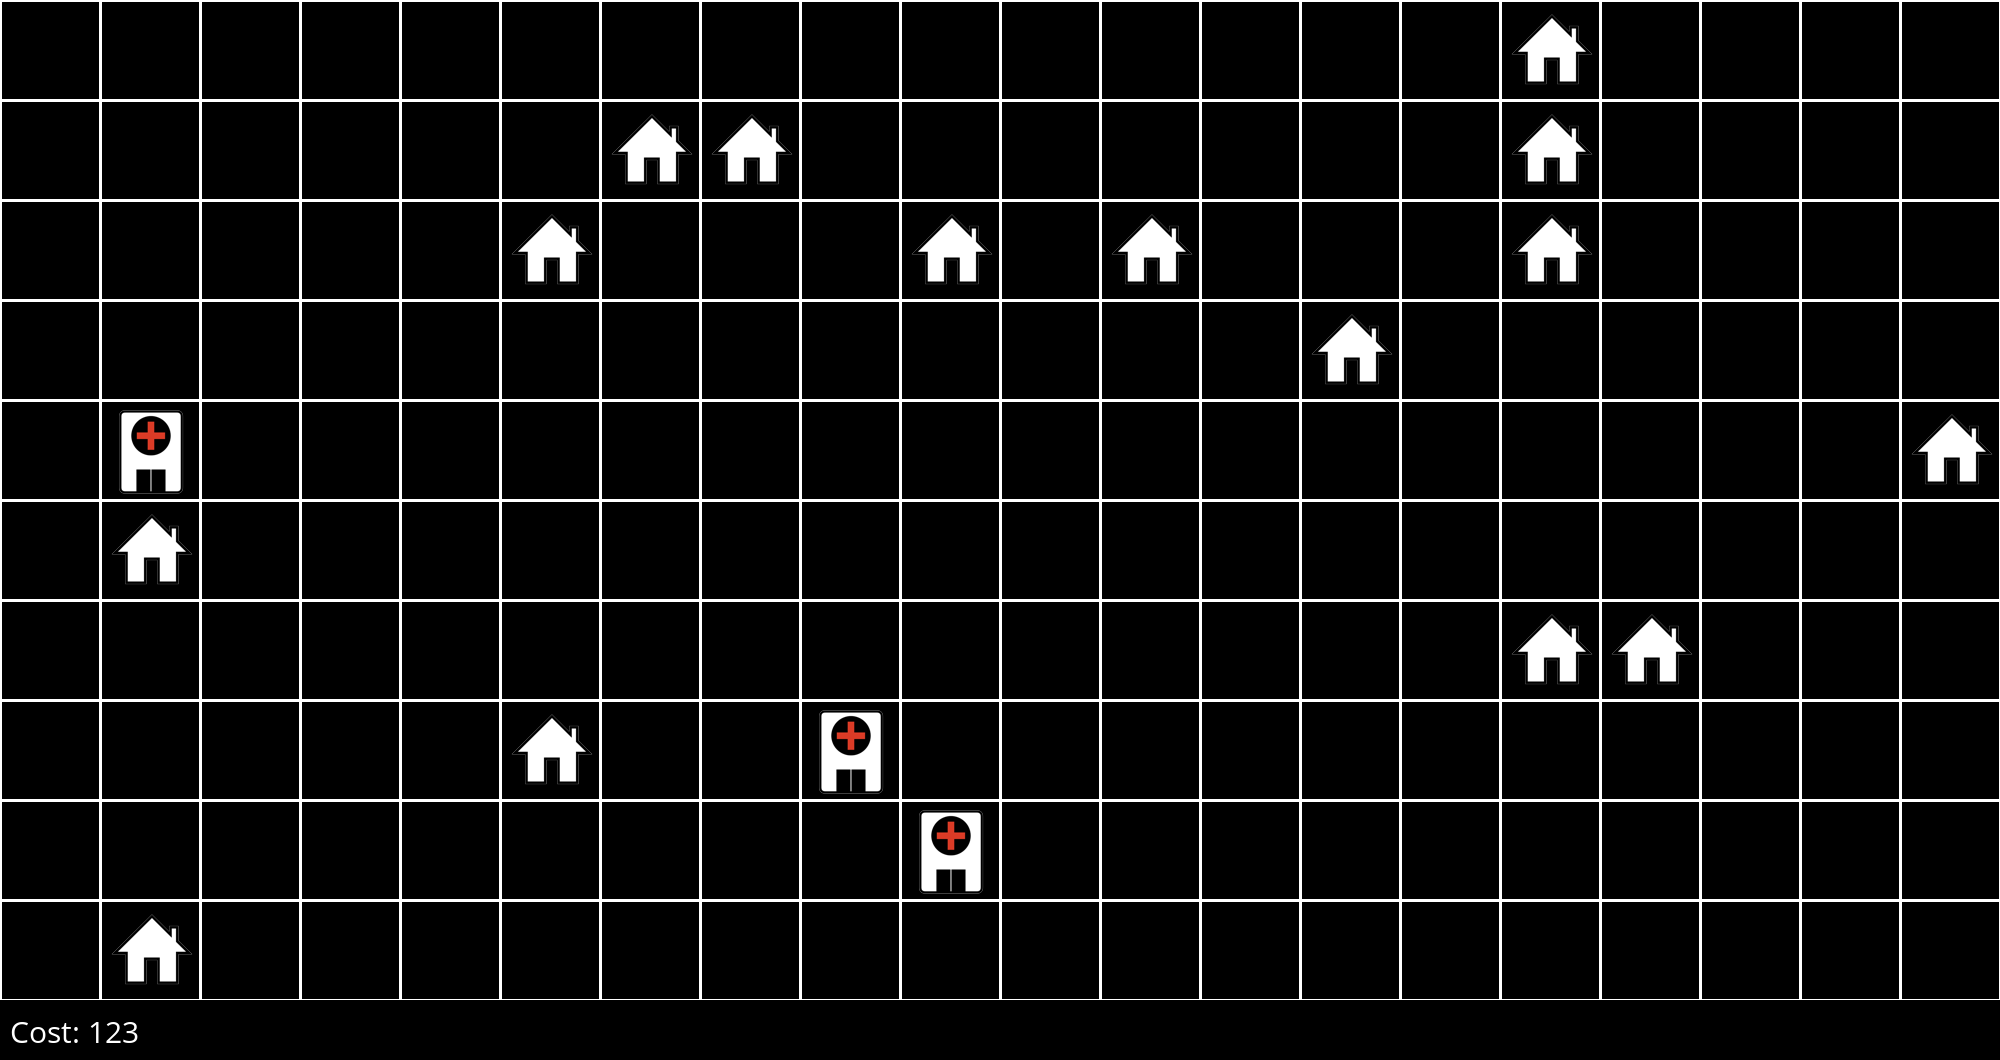
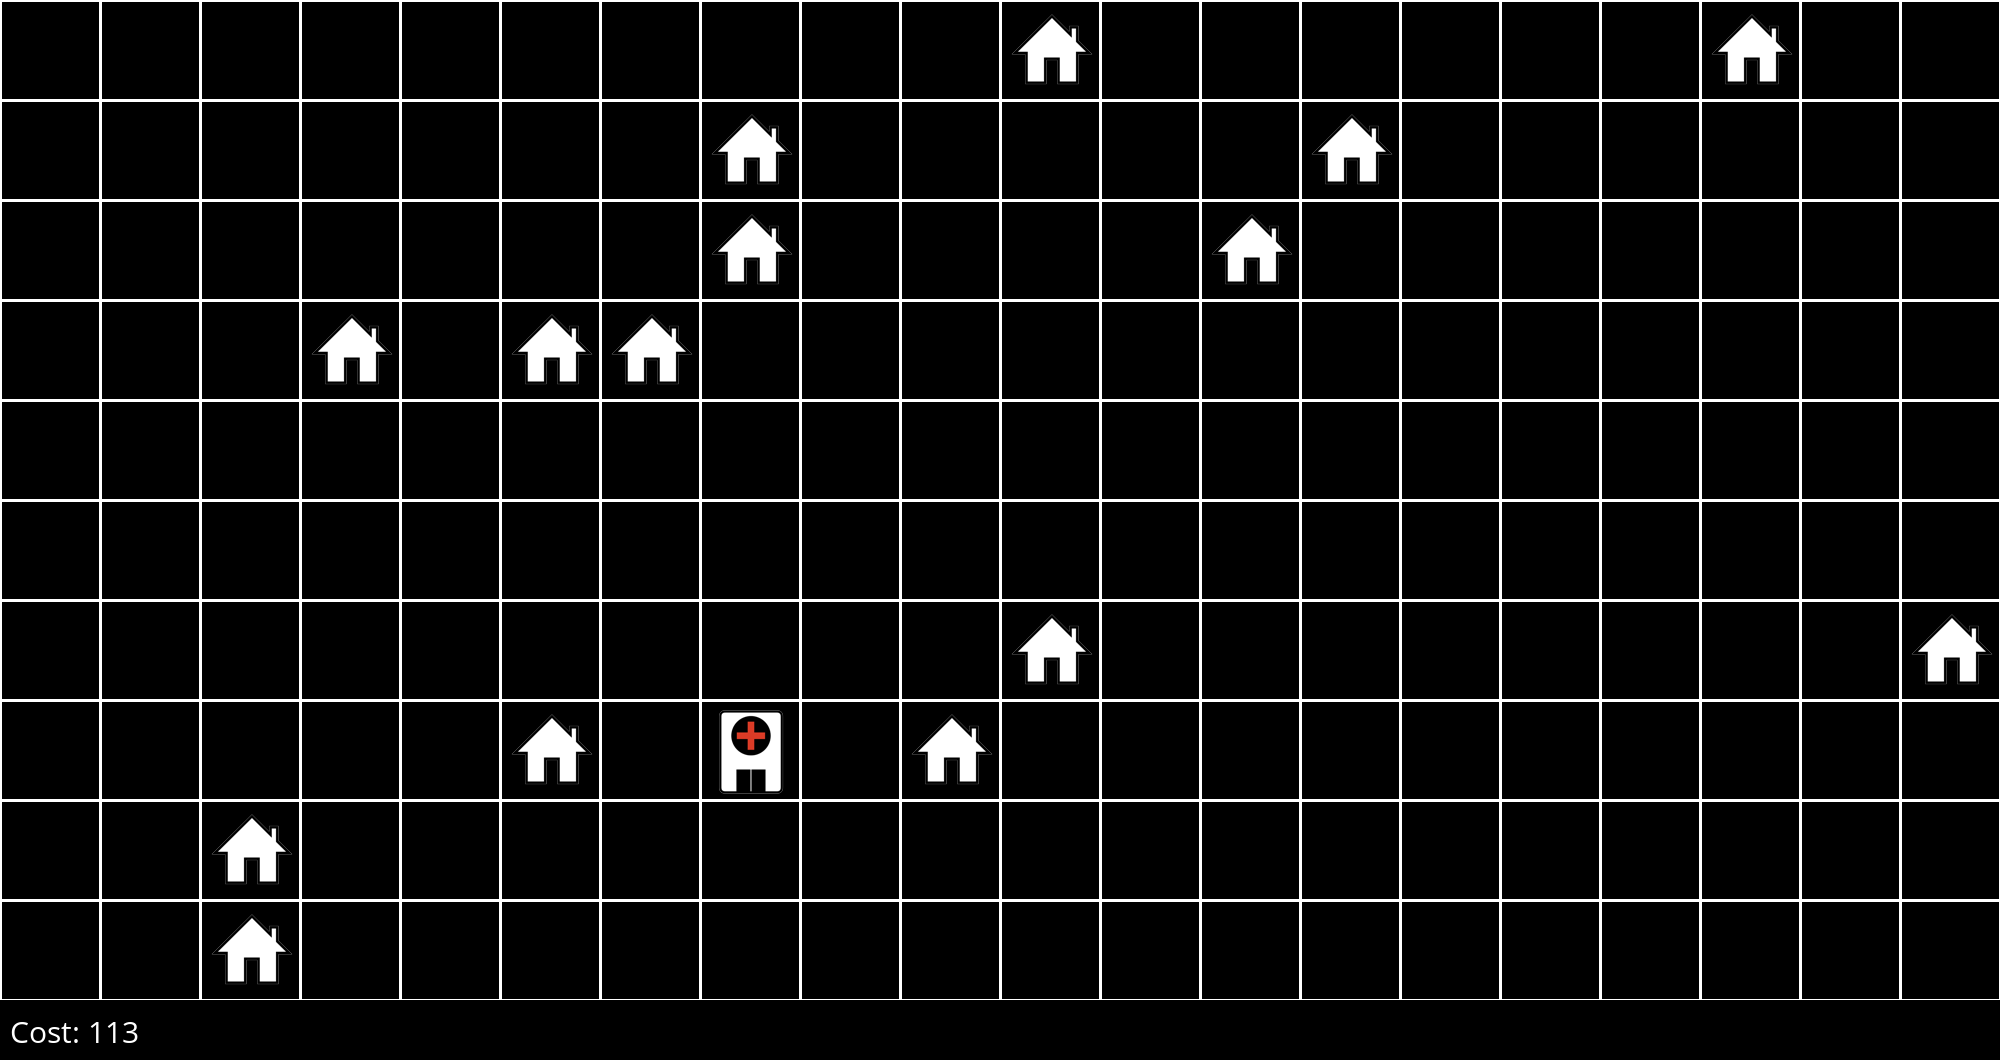
add test.py with matplotlib heatmap function

diff --git a/test.py b/test.py
@@ -1,0 +1,76 @@
+import matplotlib.pyplot as plt
+import numpy as np
+import matplotlib as mpl
+
+def heatmap(data, ax=None, cbar_kw=None, cbarlabel="", **kwargs):
+    """
+    Create a heatmap from a numpy array and two lists of labels.
+
+    Parameters
+    ----------
+    data
+        A 2D numpy array of shape (M, N).
+    row_labels
+        A list or array of length M with the labels for the rows.
+    col_labels
+        A list or array of length N with the labels for the columns.
+    ax
+        A `matplotlib.axes.Axes` instance to which the heatmap is plotted.  If
+        not provided, use current axes or create a new one.  Optional.
+    cbar_kw
+        A dictionary with arguments to `matplotlib.Figure.colorbar`.  Optional.
+    cbarlabel
+        The label for the colorbar.  Optional.
+    **kwargs
+        All other arguments are forwarded to `imshow`.
+    """
+
+    if ax is None:
+        ax = plt.gca()
+
+    if cbar_kw is None:
+        cbar_kw = {}
+
+    # Plot the heatmap
+    im = ax.imshow(data, **kwargs)
+
+    # Create colorbar
+    cbar = ax.figure.colorbar(im, ax=ax, **cbar_kw)
+    cbar.ax.set_ylabel(cbarlabel, rotation=-90, va="bottom")
+
+    # Show all ticks and label them with the respective list entries.
+    # ax.set_xticks(np.arange(data.shape[1]), labels=col_labels)
+    # ax.set_yticks(np.arange(data.shape[0]), labels=row_labels)
+
+    # Let the horizontal axes labeling appear on top.
+    # ax.tick_params(top=True, bottom=False,
+    #                labeltop=True, labelbottom=False)
+
+    # Rotate the tick labels and set their alignment.
+    # plt.setp(ax.get_xticklabels(), rotation=-30, ha="right",
+    #          rotation_mode="anchor")
+
+    # Turn spines off and create white grid.
+    ax.spines[:].set_visible(False)
+
+    ax.set_xticks(np.arange(data.shape[1]+1)-.5, minor=True)
+    ax.set_yticks(np.arange(data.shape[0]+1)-.5, minor=True)
+    ax.grid(which="minor", color="w", linestyle='-', linewidth=3)
+    ax.tick_params(which="minor", bottom=False, left=False)
+
+    return im, cbar
+
+harvest = np.array([[0.8, 2.4, 2.5, 3.9, 0.0, 4.0, 0.0],
+                    [2.4, 0.0, 4.0, 1.0, 2.7, 0.0, 0.0],
+                    [1.1, 2.4, 0.8, 4.3, 1.9, 4.4, 0.0],
+                    [0.6, 0.0, 0.3, 0.0, 3.1, 0.0, 0.0],
+                    [0.7, 1.7, 0.6, 2.6, 2.2, 6.2, 0.0],
+                    [1.3, 1.2, 0.0, 0.0, 0.0, 3.2, 5.1],
+                    [0.1, 2.0, 0.0, 1.4, 0.0, 1.9, 6.3]])
+
+fig, ax = plt.subplots()
+
+im, cbar = heatmap(harvest, ax=ax, cmap="plasma", cbarlabel="cost")
+
+fig.tight_layout()
+plt.show()

diff --git a/hospitals.py b/hospitals.py
@@ -1,5 +1,5 @@
 import random
-
+from test import heatmap
 
 class Space():
 
@@ -191,9 +191,9 @@ class Space():
 
 
 # Create a new space and add houses randomly
-s = Space(height=10, width=20, num_hospitals=3)
+s = Space(height=10, width=20, num_hospitals=1)
 for i in range(15):
     s.add_house(random.randrange(s.height), random.randrange(s.width))
 
 # Use local search to determine hospital placement
-hospitals = s.hill_climb(image_prefix="hospitals", log=True)
+hospitals = s.hill_climb(image_prefix="hospitals", log=True, maximum=10)
